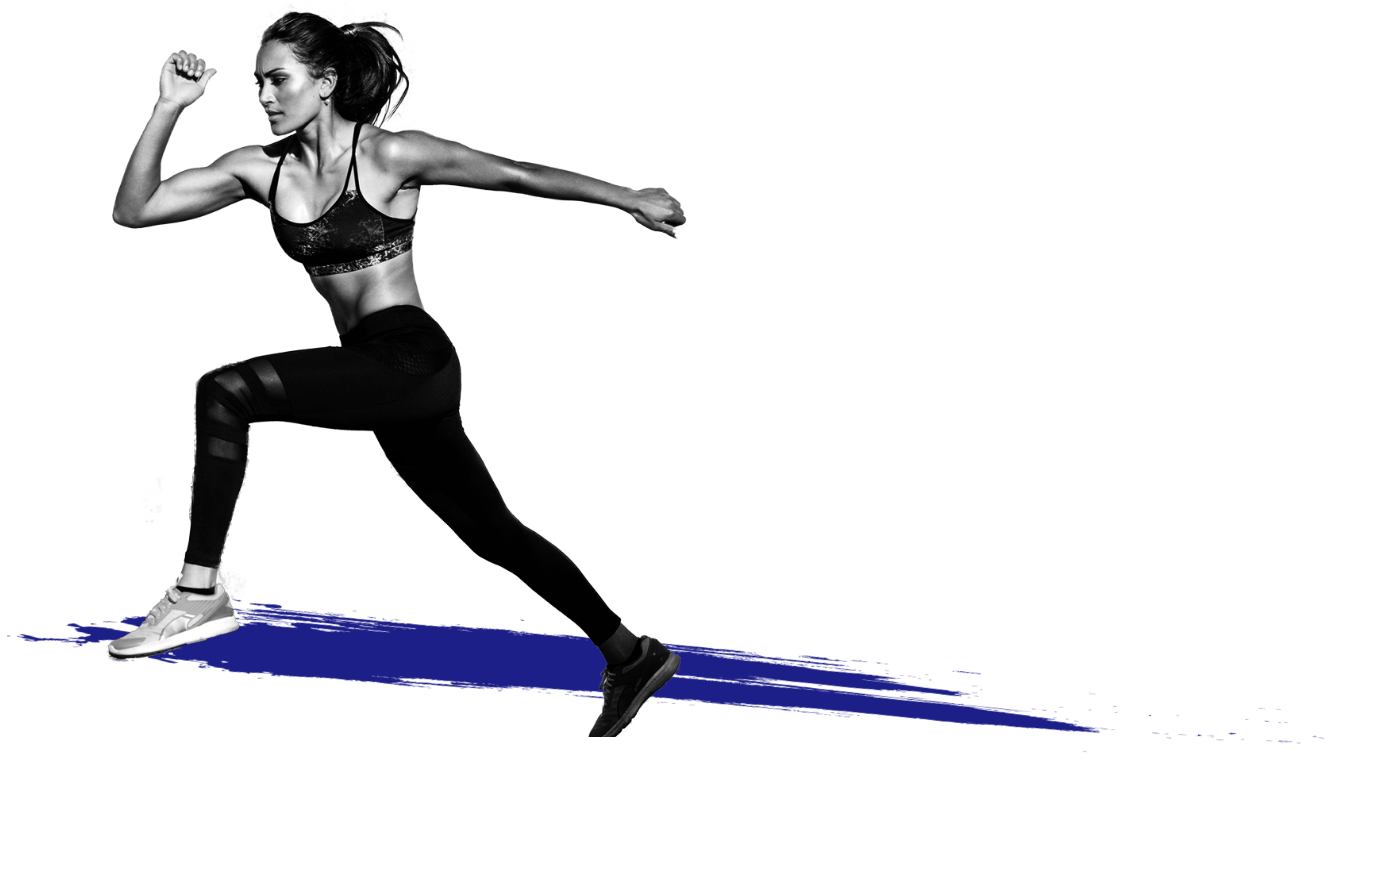
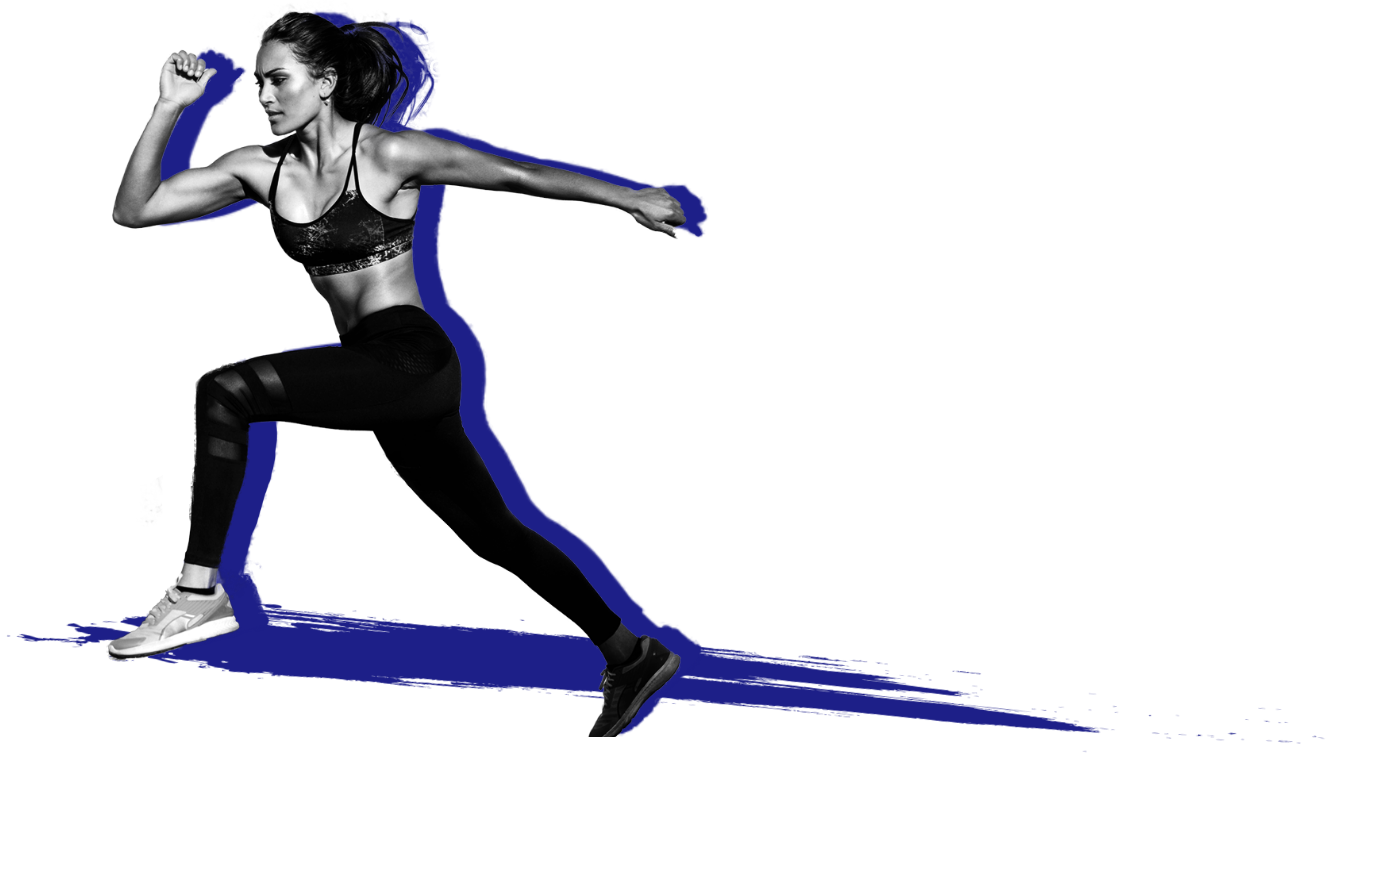
トップページ、商品詳細ページ：チェックバック修正（pc、sp）

diff --git a/css/smart.css b/css/smart.css
@@ -263,6 +263,12 @@ header .header_in nav li a span{
 header.active .menu_open{
 	background: rgba(255,241,0,.7);
 }
+.lower header.active .menu_open{
+	background: transparent;
+}
+header.active .menu_open.active{
+	background: transparent;
+}
 .menu_open span{
 	position: absolute;
 	top:50%;
@@ -691,6 +697,18 @@ footer .copyright{
 	width: 90%;
 	margin-left: auto;
 	transform: skewX(10deg);
+}
+@media screen and ( max-width:369px) {
+	.top03 .item .txt_in{ bottom: -6rem; }
+	.top03 .item .img01{ margin: 6rem auto 2rem; }
+}
+@media screen and (min-width:370px) and ( max-width:379px) {
+	.top03 .item .txt_in{ bottom: -3rem; }
+	.top03 .item .img01{ margin: 3rem auto 2rem; }
+}
+@media screen and (min-width:380px) and ( max-width:767px) {
+	.top03 .item .txt_in{ bottom: -2rem; }
+	.top03 .item .img01{ margin: 2rem auto; }
 }
 /* ▲▲▲▲▲▲▲▲▲▲▲▲▲▲ トップ03 ▲▲▲▲▲▲▲▲▲▲▲▲▲▲ */
 
@@ -1208,9 +1226,9 @@ footer .copyright{
 .product01 .box .bluebox{
 	position: absolute;
 	width: 14rem;
-	height: 150%;
-	bottom: 50%;
-	right: 18%;
+	height: 57rem;
+	top: -15rem;
+	left: -3.25rem;
 	transform: skewX(-10deg);
 	background: #1d1f88;
 	border-right: solid 10px #1d1f88;

diff --git a/css/desktop.css b/css/desktop.css
@@ -497,6 +497,16 @@ footer .copyright{
 	left: -14%;
 	transform: skewX(-10deg);
 }
+.top02 .box::after{
+	position: absolute;
+	content: '';
+	width: 30rem;
+	height: 4rem;
+	background: #fff100;
+	top: -4rem;
+	left: 88.25%;
+	transform: skewX(-10deg);
+}
 .top02 .box .bluebox{
 	position: absolute;
 	height: 276%;
@@ -611,7 +621,7 @@ footer .copyright{
 	height: 5rem;
 	top: 50%;
 	right: -100%;
-	transform: translateY(-50%) translateY(1.5rem) skewX(-10deg);
+	transform: translateY(-50%) translateY(0.25rem) skewX(-10deg);
 	width: 80%;
 }
 .top03 .item .bg{
@@ -709,7 +719,7 @@ footer .copyright{
 	margin-left: 1rem;
 }
 .top03 .item .txt_in{
-	margin: 2rem auto 0;
+	margin: 0.75rem auto 0 2rem;
 	background: rgba(255, 255, 255, .5);
 	padding: 1rem 1.5rem;
 	width: 23rem;
@@ -732,7 +742,7 @@ footer .copyright{
 	width: 48rem;
 	margin-right: -100%;
 	padding: 1.5rem 3rem;
-	bottom: 2.5%;
+	bottom: 6.5%;
 	left: 50%;
 	transform: skewX(-10deg);
 }
@@ -1000,7 +1010,7 @@ footer .copyright{
 .top06 .sub_ttl{
 	position: relative;
 	display: inline-block;
-	padding: 0 4rem;
+	padding: 0 5.5rem;
 	font-size: 1.6rem;
 }
 .top06 .sub_ttl::before,

diff --git a/product02.html b/product02.html
@@ -23,7 +23,7 @@
 </head>
 
 <body class="preload">
-  <div id="wrapper">
+  <div id="wrapper" class="lower">
     <header>
       <!-- ▼▼▼▼▼▼▼▼▼▼▼▼▼▼ PCナビ ▼▼▼▼▼▼▼▼▼▼▼▼▼▼ -->
       <div class="header_in">

diff --git a/product03.html b/product03.html
@@ -23,7 +23,7 @@
 </head>
 
 <body class="preload">
-  <div id="wrapper">
+  <div id="wrapper" class="lower">
     <header>
       <!-- ▼▼▼▼▼▼▼▼▼▼▼▼▼▼ PCナビ ▼▼▼▼▼▼▼▼▼▼▼▼▼▼ -->
       <div class="header_in">

diff --git a/product04.html b/product04.html
@@ -23,7 +23,7 @@
 </head>
 
 <body class="preload">
-  <div id="wrapper">
+  <div id="wrapper" class="lower">
     <header>
       <!-- ▼▼▼▼▼▼▼▼▼▼▼▼▼▼ PCナビ ▼▼▼▼▼▼▼▼▼▼▼▼▼▼ -->
       <div class="header_in">

diff --git a/product05.html b/product05.html
@@ -23,7 +23,7 @@
 </head>
 
 <body class="preload">
-  <div id="wrapper">
+  <div id="wrapper" class="lower">
     <header>
       <!-- ▼▼▼▼▼▼▼▼▼▼▼▼▼▼ PCナビ ▼▼▼▼▼▼▼▼▼▼▼▼▼▼ -->
       <div class="header_in">

diff --git a/product06.html b/product06.html
@@ -23,7 +23,7 @@
 </head>
 
 <body class="preload">
-  <div id="wrapper">
+  <div id="wrapper" class="lower">
     <header>
       <!-- ▼▼▼▼▼▼▼▼▼▼▼▼▼▼ PCナビ ▼▼▼▼▼▼▼▼▼▼▼▼▼▼ -->
       <div class="header_in">

diff --git a/product01.html b/product01.html
@@ -23,7 +23,7 @@
 </head>
 
 <body class="preload">
-	<div id="wrapper">
+	<div id="wrapper" class="lower">
 		<header>
 			<!-- ▼▼▼▼▼▼▼▼▼▼▼▼▼▼ PCナビ ▼▼▼▼▼▼▼▼▼▼▼▼▼▼ -->
 			<div class="header_in">

diff --git a/product07.html b/product07.html
@@ -23,7 +23,7 @@
 </head>
 
 <body class="preload">
-	<div id="wrapper">
+	<div id="wrapper" class="lower">
 		<header>
 			<!-- ▼▼▼▼▼▼▼▼▼▼▼▼▼▼ PCナビ ▼▼▼▼▼▼▼▼▼▼▼▼▼▼ -->
 			<div class="header_in">
